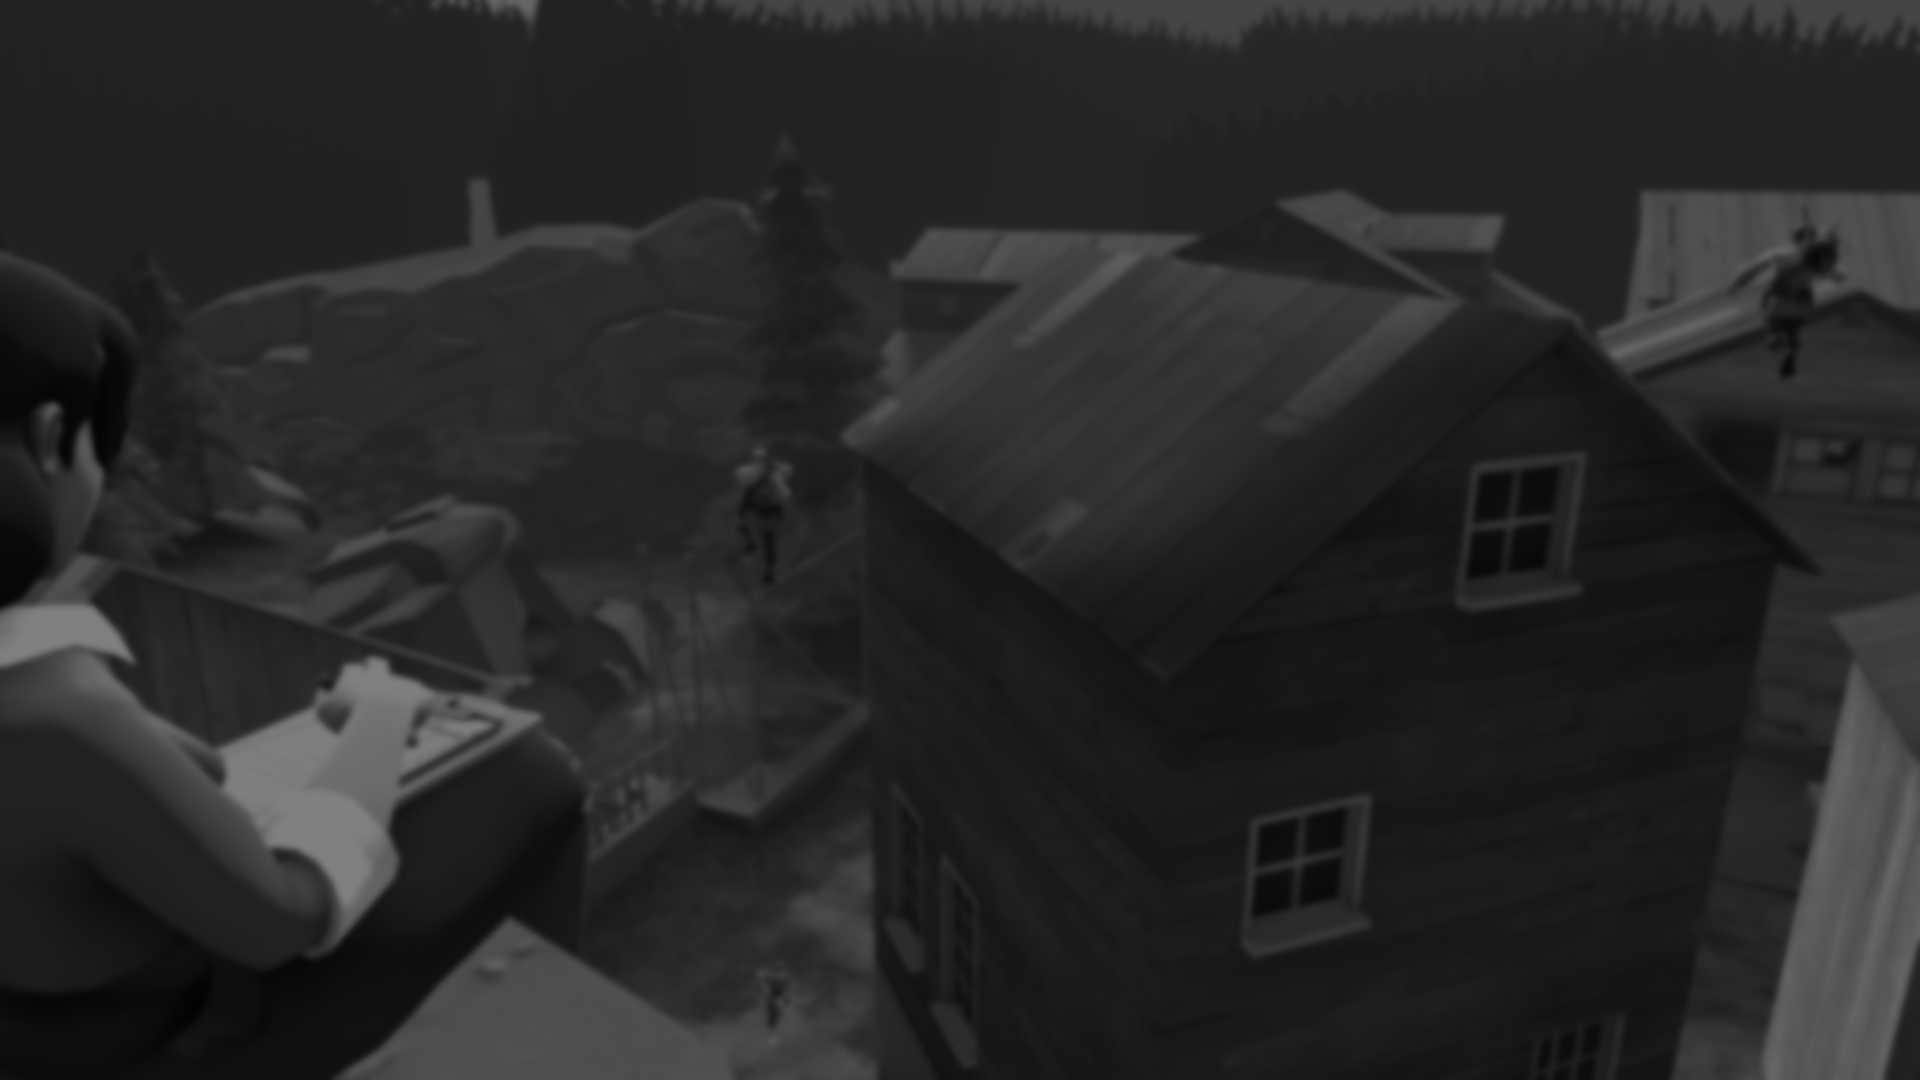
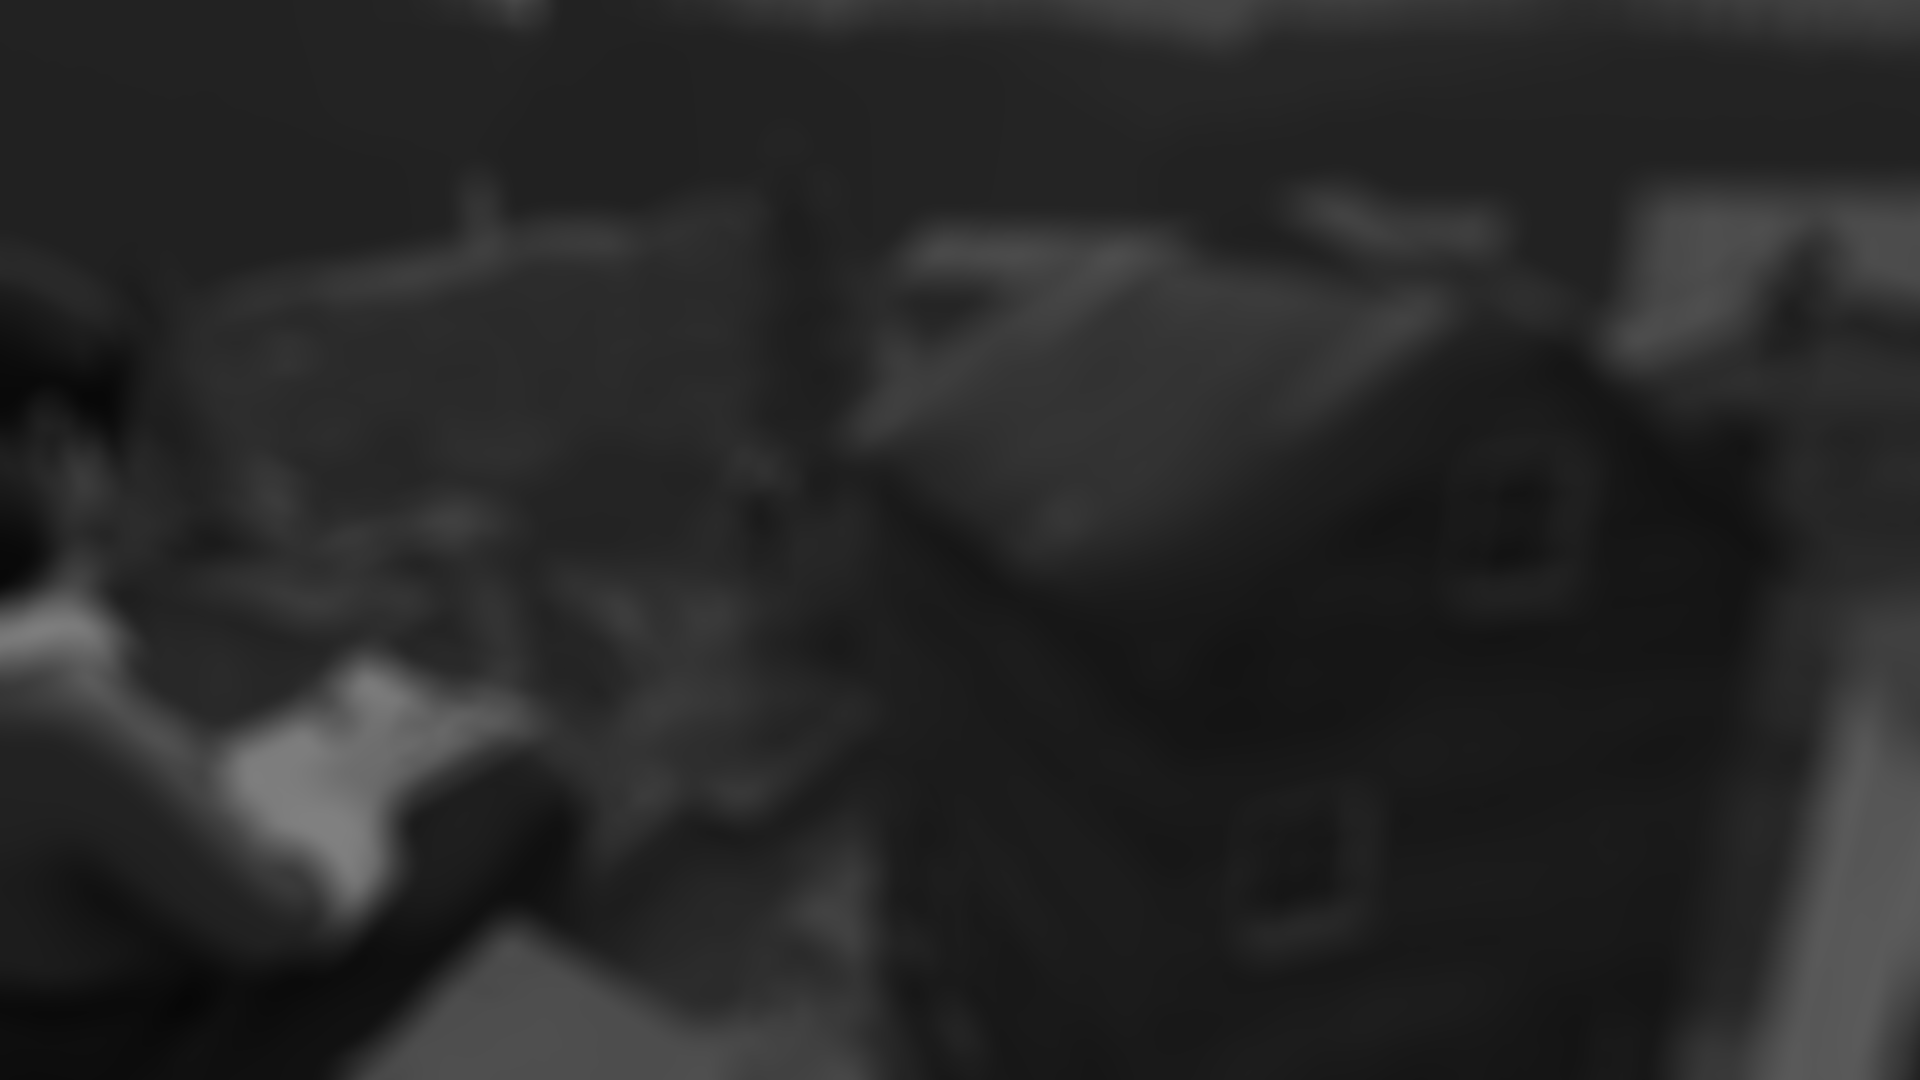
blurred background image, made transparent boxes darker for readability

diff --git a/public/elements/pugchamp-theme/theme.html b/public/elements/pugchamp-theme/theme.html
@@ -35,6 +35,6 @@
         --text-primary-color: var(--dark-theme-text-color);
         --default-primary-color: var(--primary-color);
 
-        --box-background-color: rgba(0, 0, 0, 0.5);
+        --box-background-color: rgba(0, 0, 0, 0.6);
     }
 </style>
